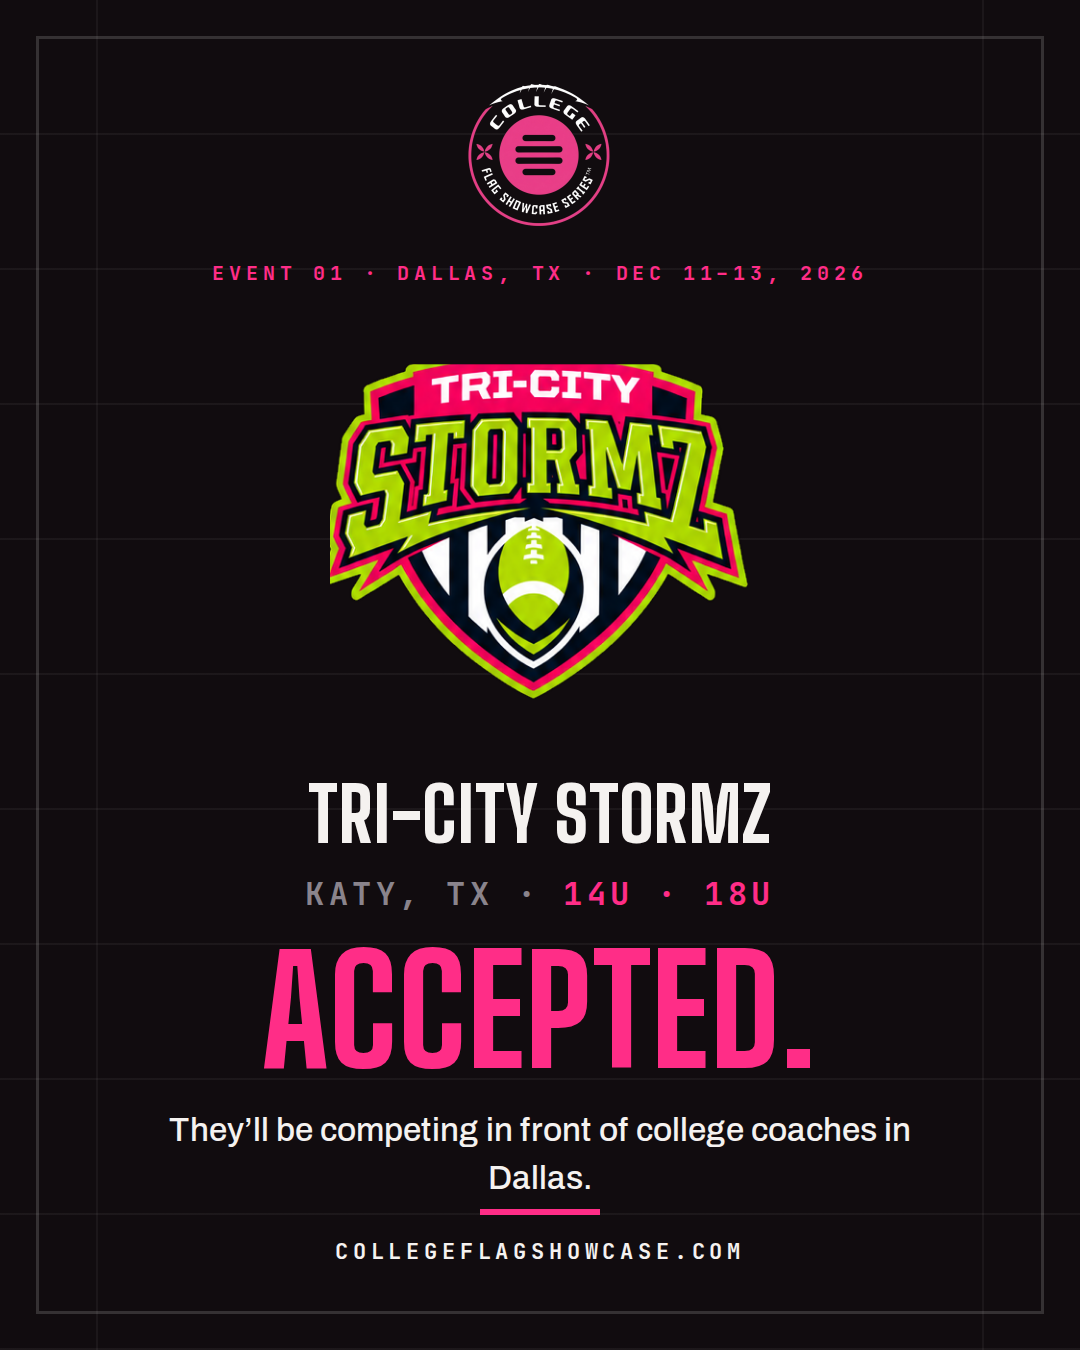
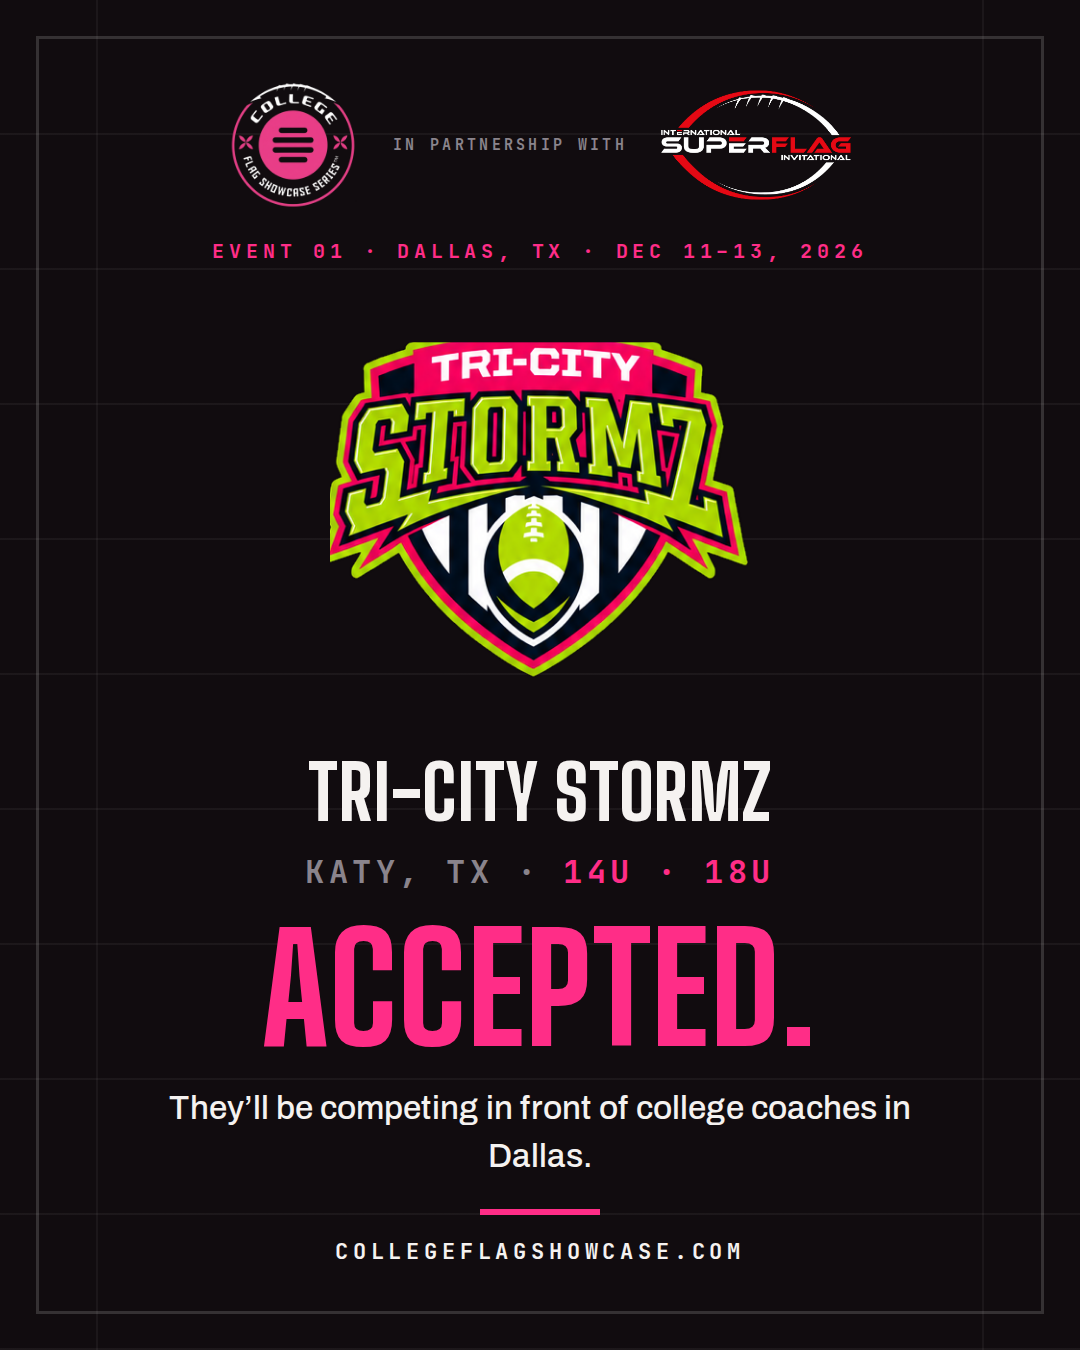
Add Superflag partner row to the acceptance announcement
Claude-Session: https://claude.ai/code/session_019V32boShoBmRrwWenCPJFc

diff --git a/collateral/ig-org-committed.html b/collateral/ig-org-committed.html
@@ -36,7 +36,10 @@
 
   .inner{position:absolute;inset:0;display:flex;flex-direction:column;align-items:center;text-align:center;padding:80px 110px 84px}
 
-  .cfs-logo{width:150px;height:150px;margin-bottom:30px}
+  .partner-row{display:flex;align-items:center;justify-content:center;gap:34px;margin-bottom:28px}
+  .cfs-logo{width:130px;height:130px}
+  .partner-mid{font-family:var(--mono);font-size:15px;font-weight:700;letter-spacing:.22em;text-transform:uppercase;color:var(--steel);white-space:nowrap}
+  .superflag-logo{width:190px;height:auto}
   .kicker{font-family:var(--mono);font-size:20px;font-weight:700;letter-spacing:.24em;text-transform:uppercase;color:var(--red);white-space:nowrap}
 
   .org-logo{margin-top:36px;height:420px;max-width:700px;object-fit:contain}
@@ -59,7 +62,11 @@
   <div class="hash r"></div>
   <div class="frame"></div>
   <div class="inner">
-    <img class="cfs-logo" src="../public/logo.png" alt="College Flag Showcase Series" />
+    <div class="partner-row">
+      <img class="cfs-logo" src="../public/logo.png" alt="College Flag Showcase Series" />
+      <span class="partner-mid">In Partnership With</span>
+      <img class="superflag-logo" src="../public/superflag.png" alt="International Superflag Invitational" />
+    </div>
     <p class="kicker">{{EVENT_LINE}}</p>
     <img class="org-logo" src="{{LOGO}}" alt="{{NAME}}" />
     <h2 class="org-name">{{NAME}}</h2>
